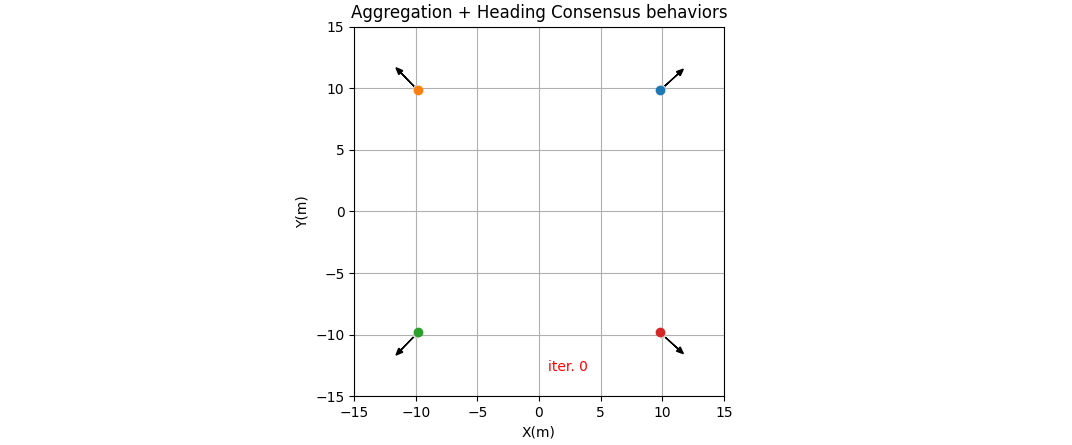
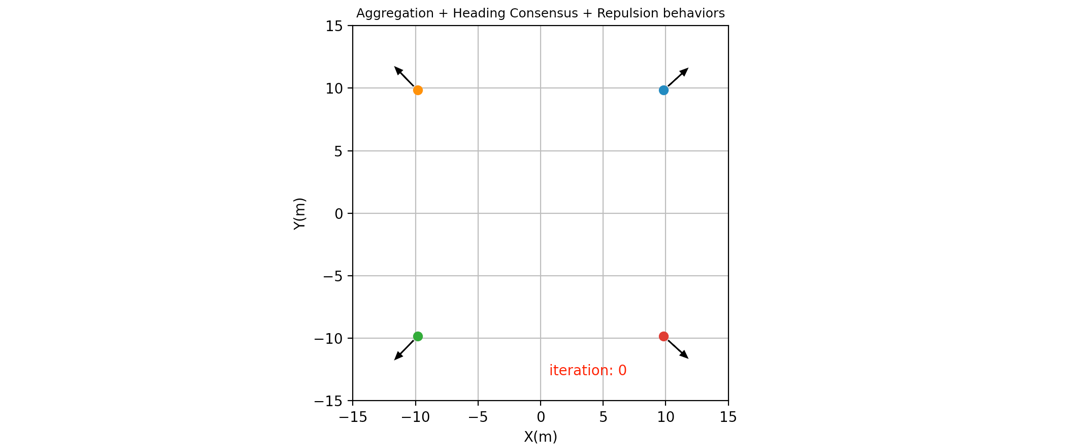
Update paper

diff --git a/examples/example_joss_paper.py b/examples/example_joss_paper.py
@@ -66,7 +66,7 @@ class Swarm_paper:
         self.ax.set_ylabel('Y(m)')
         self.ax.grid()
         self.ax.set_aspect('equal')
-        self.ax.set_title('Aggregation + Heading Consensus behaviors')
+        self.ax.set_title('Aggregation + Heading Consensus + Repulsion behaviors', fontsize=9)
 
         # path history
         self.ax.plot(self.position_history[0][0], self.position_history[0][1], marker='.', lw=0, c='lightgray')
@@ -86,7 +86,7 @@ class Swarm_paper:
         self.ax.arrow(self.robot_positions[2][0], self.robot_positions[2][1], arrow_len*np.cos(self.robot_orientations[2][2]), arrow_len*np.sin(self.robot_orientations[2][2]), head_width=0.45, head_length=0.55, fc='k')
         self.ax.arrow(self.robot_positions[3][0], self.robot_positions[3][1], arrow_len*np.cos(self.robot_orientations[3][2]), arrow_len*np.sin(self.robot_orientations[3][2]), head_width=0.45, head_length=0.55, fc='k')
 
-        self.ax.text(0.7, -12.95, 'iter. %d' % (i), color='red')
+        self.ax.text(0.7, -12.95, 'iteration: %d' % (i), color='red')
 
         self.robot_positions_copy = self.robot_positions.copy()
         self.robot_orientations_copy = self.robot_orientations.copy()
@@ -94,7 +94,7 @@ class Swarm_paper:
         for r_ind in range(len(self.robot_positions)):
             r_i = self.robot_positions[r_ind]
             r_j = np.delete(self.robot_positions, np.array([r_ind]), axis=0)
-            self.robot_positions_copy[r_ind] += self.robot_linear_speed*(pb.aggregation(r_i, r_j))
+            self.robot_positions_copy[r_ind] += self.robot_linear_speed*((pb.aggregation(r_i, r_j)) + pb.repulsion(r_i, r_j, 3.0))
 
             theta_i = self.robot_orientations[r_ind]
             theta_j = np.delete(self.robot_orientations, np.array([r_ind]), axis=0)

diff --git a/paper/paper.md b/paper/paper.md
@@ -29,29 +29,80 @@ bibliography: paper.bib
 
 # Summary
 
-When considering a system composed by a group of robots, swarm robotics is an approach that can be used to coordinating this group. These swarm robotic systems can be inspired or not by social insects or other animal societies [@trianni:2008], where basic behaviors are usually used to compose complex tasks. These previous mentioned basic behaviors have been studied for a long time, with applications, for example, to flocks, herds, and schools [@reynolds:1987] and multi-robot teams [@balch:1998].
+When considering a system composed of a group of robots, swarm robotics is an approach that can be used to coordinate this group. These swarms can be inspired or not by social insects or other animal societies [@trianni:2008], where basic behaviors are usually used to compose complex tasks. These previously mentioned basic behaviors have been studied for a long time, with applications, for example, to flocks, herds, and schools [@reynolds:1987] and multi-robot teams [@balch:1998].
 However, software standardization is urgently needed to maximize the applicability of swarm robotics to real-world applications [@nedjah:2019]. Here we introduce PySwarming, a tool that makes easy the coordination of swarms and serves as a centerpiece, organizing different methods developed in the swarm robotics field. Its flexibility (written in Python) and customizability (easily customized by users) encourage interaction and scientific progress in the research community.
 
 # Introduction
 
-Controlling a system composed of a group of robots can be a challenge, then, swarm robotics is an approach that is widely used to coordinate this kind of system. Furthermore, the changes that the field of swarm robotics has experienced in the last decade are unprecedented, with various demonstrations showing the potential of this technology [@drigo:2021]. Moreover, it is important to note that swarm robotics is a subfield of multi-robot systems, itself a subfield of mobile robot research [@dias:2021].
-Additionally, these swarming robotic systems may or may not be inspired by social insects and other animal societies [@trianni:2008], where basic behaviors are typically used to compose complex tasks. The aforementioned behavior has long been studied and applied, for instance, to herds, flocks, schools, etc. ([@reynolds:1987], [@toner:1998]), self-driven particles [@vicsek:1995], large collections of robots ([@reif:1999], [@spears:1999]), and the multi-robot teams [@balch:1998].
-
-## Statement of Need
-
-Although, as stated by [@nedjah:2019], a significant issue in the swarm robotics field is the lack of common generic hardware platforms and controller design methodologies. Also, the authors claim an urgent need for standardization of software, to allow a possible flourishing of swarm robotics applicability to real-world applications.
+Controlling a system composed of a group of robots can be a challenge, then, swarm robotics is an approach that is widely used to coordinate this kind of system. Furthermore, the changes that the field of swarm robotics has experienced in the last decade are unprecedented, with various demonstrations showing the potential of this technology [@dorigo:2021]. Moreover, it is important to note that swarm robotics is a subfield of multi-robot systems, itself a subfield of mobile robot research [@dias:2021].
+Additionally, these swarms may or may not be inspired by social insects and other animal societies [@trianni:2008], where basic behaviors are typically used to compose complex tasks. The aforementioned behaviors have long been studied and applied, for instance, to herds, flocks, schools, etc. ([@reynolds:1987], [@toner:1998]), self-driven particles [@vicsek:1995], large collections of robots ([@reif:1999], [@spears:1999]), and multi-robot teams [@balch:1998].
 
 ## Related Software Packages
 
-There are various software packages which concerns swarm robotics, [@calderon:2022] presents a good review regarding swarm robotics simulators, platforms and applications. Therefore, for software packages we have, for instance: (1) Buzz, which is a programming language for heterogeneous robot swarms [@pinciroli:2015]. It offers primitives to define swarm behaviors and also single-robot instructions; (2) ChoiRbot by [@testa:2021], which is a toolbox for distributed cooperative robotics based on the Robot Operating System (ROS) 2; (3) ROS2SWARM, which is a package for applications of swarm robotics that provides a library of ready-to-use swarm behavioral primitives [@kaiser:2022]; (4) ARGoS, which is a multi-physics robot simulator, able to simulating large-scale swarms of robots [@pinciroli:2011]; (5) Stage Simulator, which provides a virtual world populated by mobile robots and sensors, along with various objects for the robots to sense and manipulate [@vaughan:2008]; (6) USARSim is a free 3D simulator similar to Gazebo [@carpin:2007]; (7) Swarm-bots [@mondada:2004] is also a robotic simulator, but it is not publicly available; (8) and TeamBots is a Java-based collection of application programs and Java packages for multiagent mobile robotics research [@balch:1998teambots].
+For more than 20 years software for swarm robotics has been created, adapted, and tested in different ways [@calderon:2022].  Software packages that allow the creation of virtual scenarios and swarm robots with sensing, processing, and actuating capabilities are crucial for the swarm robotics field. These software packages may be split into two categories: (1) *Swarm Simulators*, which in general can simulate swarm robots with sensors and actuators, and (2) *Behavior Packages*, which are composed of a bunch of ready-to-use collective behaviors. Also, these software are written in different programming languages, which may be an initial barrier for new users, depending on how much this language is difficult to learn or previous knowledge by the user. Concerning swarm robotics, [@calderon:2022] presents a good review regarding swarm robotics simulators, platforms, and applications. Therefore, for software packages we have, for instance: (1) Buzz, which is a programming language for heterogeneous robot swarms [@pinciroli:2015]. It offers primitives to define swarm behaviors and also single-robot instructions; (2) ChoiRbot by [@testa:2021], which is a toolbox for distributed cooperative robotics based on the Robot Operating System (ROS) 2; (3) ROS2Swarm, which is a package for applications of swarm robotics that provides a library of ready-to-use swarm behavioral primitives [@kaiser:2022]; (4) ARGoS, which is a multi-physics robot simulator, able to simulating large-scale swarms of robots [@pinciroli:2011]; (5) Stage Simulator, which provides a virtual world populated by mobile robots and sensors, along with various objects for the robots to sense and manipulate [@vaughan:2008]; (6) USARSim is a free 3D simulator similar to Gazebo [@carpin:2007]; (7) The Swarm-bots project [@mondada:2004] is also a robotic simulator with swarm-intelligence-based control mechanisms, but it is not publicly available; (8) and TeamBots is a Java-based collection of application programs and Java packages for multiagent mobile robotics research [@balch:1998teambots]. **Table 1** shows a summary of these software and their respective category and programming languages.
+
+<div align="center">
+
+| Software | Category | Programing Language |
+| ------------ | --------------- | --------------------------- |
+| Buzz | Behaviors package | Buzz |
+| ChoiRbot | Behaviors package[^*] | Python |
+| ROS2Swarm | Behaviors package[^*] | Python |
+| ARGoS | Simulator | C++ |
+| Stage | Simulator | C++ |
+| USARSim | Simulator | UnrealScript |
+| Gazebo | Simulator | C++ and Python[^**] |
+| Swarm-bots | Simulator and Behaviors package | Not found |
+| TeamBots | Simulator and Behaviors package | Java and C |
+
+</div>
+
+Table 1: Summary of software packages with their respective categories and programming languages.
+
+[^*]: These packages were built to be used with ROS.
+[^**]: These are the programming languages that can be used in the interface ROS-Gazebo.
+
+## Statement of Need
+
+Concerning the *Swarm Simulators*, there is an enormous variety of excellent candidates, but it is hard to compare each other since each one has been developed with different objectives [@erez:2015]. Then, recommendations regarding this choice can be found in [@calderon:2022].
+Regarding *Behavior Packages*, their objective is to offer ready-to-use collective behaviors, depending on the programming language in which they are implemented they can be used inside different simulators. However, as can noticed from the previous section, in general, different packages are written in different languages, imposing a possible barrier for new users and the use of the package inside simulators written in a different programming language. This last fact agrees with [@nedjah:2019], where the authors claim an urgent need for standardization of software, to allow a possible flourishing of swarm robotics applicability to real-world applications.
 
 # PySwarming
-Considering the challenge of organizing the various methods developed in the swarm robotics field, PySwarming comes as a focal point, being flexible (written in Python) and customizable (can be easily adapted by the user), increasing the interaction of the researcher community and the advance of science. Also, PySwarming's characteristic is to make the implementations easy to read, keeping the syntax simple and closer to their sources. For example, the target algorithm by [@zoss:2018] is easily comparable with the mathematical formula of their article.
 
-PySwarming differs from Buzz and TeamBots mainly by the fact that it focuses on swarm behaviors and it is written in Python, which has a thriving ecosystem of third-party libraries. Also, implementations like ChoiRbot and ROS2SWARM require ROS 2 to run, which makes PySwarming more suitable for obtaining swarm behaviors through different platforms other than ROS. Lastly, unlike ARGoS, Stage, USARSim, and Swarm-bots, the main goal of PySwaming is not to be a simulator itself, but a common place for different swarm coordination methods and other tools.
+Because of the lack of a cross-platform *Behavior Package*, we introduce PySwarming, which is a tool that facilitates the coordination of swarms and serves as a centerpiece, organizing different methods developed in the swarm robotics field. The package is written in Python, which is one of the most accessible languages for learning and prototyping nowadays. Also, differently from other Python-based packages such as ChoiRbot and ROS2Swarm that are designed to work with ROS, the PySwarming package is implemented in a way that makes possible cross-platform use. In addition, the PySwarming package comes with a simple read-to-use simulation feature, which helps lower the barrier for newcomers to the field.
 
-Concerning the algorithms, PySwarming contains implementations from different authors, for instance, Leaderless Coordination [@vicsek:1995], Preferred Direction [@couzin:2005], Aggregation [@zoss:2018], and so on. Also, these algorithms are based on different design methods [@brambilla:2013], for instance, a behavior-based design like the attraction-repulsion algorithm (for details see [@spears:2004]) can drive the robotic swarming by means of virtual forces, where the achieved configuration relies on minimizing the system’s potential energy.
-More explanations regarding the algorithms and their use can be found in the API and PySwarming documentation. Also, an example usage (aggregation + heading consensus) is described below.
+Then, considering the challenge of organizing the various methods developed in the swarm robotics field, PySwarming comes as a focal point, being flexible (written in Python) and customizable (can be easily adapted by the user), increasing the interaction of the researcher community and the advance of science. Also, PySwarming's characteristic is to make the implementations easy to read, keeping the syntax simple and closer to their sources. For example, the target algorithm by [@zoss:2018] is easily comparable with the mathematical formula of their article.
+
+PySwarming differs from Buzz and TeamBots mainly by the fact that it focuses on swarm behaviors and it is written in Python, which has a thriving ecosystem of third-party libraries. Also, implementations like ChoiRbot and ROS2SWARM require ROS to run, which makes PySwarming more suitable for obtaining swarm behaviors through different platforms other than ROS. Lastly, unlike ARGoS, Stage, and USARSim the main goal of PySwaming is not to be a simulator itself, but a common place for different swarm coordination methods and other tools.
+
+Concerning the algorithms, PySwarming contains implementations from different authors, for instance, Leaderless Coordination [@vicsek:1995], Preferred Direction [@couzin:2005], Aggregation [@zoss:2018], and so on. Also, these algorithms are based on different design methods [@brambilla:2013], for instance, a behavior-based design like the attraction-repulsion algorithm (for details see [@spears:2004]) can drive the robotic swarming employing virtual forces, where the achieved configuration relies on minimizing the system’s potential energy. More explanations regarding the algorithms and their use can be found in the API and PySwarming documentation. Also, an example usage (aggregation + heading consensus + repulsion) is described below.
+
+## Simulation Example 
+
+To start our example, we will define a set of four robots assuming we have access to their positions and orientations. Initially, they are positioned far from each other, and also they have different orientations, as can be observed in \autoref{fig1}.
+
+![The initial state of the four robots. Each colored circle is a robot and the arrows indicate their orientation. The iteration number is the red text.\label{fig1}](fig1.png)
+
+Then, using `PySwarming` we iterate over time by summing three different behaviors: (1) Aggregation, (2) Heading Consensus, and (3) Repulsion. Each of these behaviors is applied to each robot at each timestep. As expected, the robots will aggregate, adjust their headings, and repulse each other simultaneously over the simulation. The intermediate and final results are shown in \autoref{fig2}.
+
+![Intermediate (left) and final (right) state of the four robots. The gray path is the plot of the last 30 iterations of each robot.\label{fig2}](fig2.png)
+
+The above simulation can be done by using other `PySwarming` behaviors, such as Attraction and Alignment, with just a few lines of code, which demonstrates the simplicity of `PySwarming`. Finally, the code for this simulation can be found in our [examples](https://github.com/mrsonandrade/pyswarming/tree/main/examples) directory.
+
+## How to create a new behavior and extend the package
+
+To show PySwarming’s flexibility and customizability here we illustrate a practical example. Then, imagine that we want to create a flocking behavior. Based on the literature it is known that the classical “flocking ”model is composed of three terms: (1) aggregation, (2) avoidance, and (3) alignment [@zoss:2018]. As we have all these previous behaviors implemented in PySwarming, you can simply do:
+
+```python
+# importing the swarming behaviors
+import pyswarming.behaviors as pb
+
+# creating a new flocking function
+def flocking(*args):
+    return pb.aggregation(*args) + pb.repulsion(*args) + pb.alignment(*args)
+```
+
+Then, we have created a new behavior based on existing ones. Where, `*args` are the arguments that will be used by these functions, for details, please see the PySwarming documentation. However, you have the freedom to extend the package and implement other models, add new features, and so on, detailed instructions can be found [here](https://pyswarming.readthedocs.io/en/latest/Contribution.html).
 
 ## Algorithms covered
 
@@ -79,26 +130,14 @@ This library includes the following algorithms to be used in swarm robotics:
 * **Alignment**: the collective performs heading consensus [@zoss:2018];
 * **Geofencing**: attract the robots towards area A [@zoss:2018];
 * **Repulsion**: makes all the individuals repulse collectively [@zoss:2018];
-* **Target**: the robot goes to an specific target location [@zoss:2018];
+* **Target**: the robot goes to a specific target location [@zoss:2018];
 * **Area coverage**: using the Geofencing and Repulsion algorithms [@zoss:2018];
 * **Collective navigation**: using the Target and Repulsion algorithms [@zoss:2018];
 * **Flocking**: using the Aggregation, Repulsion and Alignment algorithms [@zoss:2018];
 
-## Example Usage 
-To start our example, we will define a set of four robots assuming we have access to their positions and orientations. Initially, they are positioned far from each other, and also they have different orientations, as can be observed in \autoref{fig1}.
-
-![The initial state of the four robots. Each colored circle is a robot and the arrows are indicating their orientation. The iteration number is the red text.\label{fig1}](fig1.png)
-
-Then, using `PySwarming` we iterate over time by summing two different behaviors: (1) Aggregation and (2) Heading Consensus. Each of these behaviors is applied to each robot at each timestep. As expected, the robots will aggregate and adjust their headings simultaneously over the simulation. The mid and final results are shown in \autoref{fig2}.
-
-![Mid (left) and final (right) state of the four robots. The gray path is the plot of the last 30 iterations of each robot.\label{fig2}](fig2.png)
-
-The above simulation can be done by using other `PySwarming` behaviors, such as Attraction and Alignment, with just a few lines of code, which demonstrates the simplicity of `PySwarming`. Finally, the code for this simulation can be found in our [examples](https://github.com/mrsonandrade/pyswarming/tree/main/examples) directory.
-
 # Conclusion
 
-Finally, we identified that despite the existence of many other software packages, PySwarming comes as a focal point, filling an important space, which regards the organization of the different methods developed over the last decades. Also, the fact that the library is written in Python confers flexibility and customization, increasing the interaction of the researcher community and the advancement of science.
- 
+Finally, we identified that despite the existence of other *Behavior Packages*, PySwarming comes as a cross-platform one, serving as a focal point, filling an important space, which regards the organization of the different methods developed over the last decades. Also, the fact that the library is written in Python confers a lower barrier for newcomers to the field, flexibility, and customization, increasing the interaction of the researcher community and the advancement of science.
 
 # Acknowledgements
 The authors would like to thank the Human Resources Program from the National Agency of Oil, Gas and Bio Combustibles – PRH-ANP for the financial support.

diff --git a/README.md b/README.md
@@ -3,7 +3,7 @@
 [![Project Status: Active – The project has reached a stable, usable state and is being actively developed.](https://www.repostatus.org/badges/latest/active.svg)](https://www.repostatus.org/#active)
 [![Documentation Status](https://readthedocs.org/projects/pyswarming/badge/?version=latest)](https://pyswarming.readthedocs.io/en/latest/?badge=latest)
 ![version](https://img.shields.io/badge/version-1.1.2-blue)
-[![Downloads](https://static.pepy.tech/badge/pyswarming)](https://pepy.tech/project/pyswarming)
+[![Downloads](https://static.pepy.tech/personalized-badge/pyswarming?period=total&units=none&left_color=black&right_color=blue&left_text=Downloads)](https://pepy.tech/project/pyswarming)
 
 <img align="left" src="docs/readme_pics/logo.png">
 
@@ -132,7 +132,7 @@ my_swarm.simulate()
 Considering a swarm of robots, they can show different behaviors by using ``pyswarming``. The following codes are simplified implementations, for detailed ones, see the [examples](https://github.com/mrsonandrade/pyswarming/tree/main/examples) folder.
 ```python
 # importing the swarming behaviors
-import pyswarming.behaviors as ps
+import pyswarming.behaviors as pb
 
 # importing numpy to work with arrays
 import numpy as np
@@ -157,7 +157,7 @@ for t in range(15):
     print(robot_position_i)
 
     # update the robot (x, y, z) position
-    robot_position_i += robot_speed_i*ps.target(robot_position_i, target_position)
+    robot_position_i += robot_speed_i*pb.target(robot_position_i, target_position)
 ```
 ![Target](notebooks/pics/Target.gif)
 
@@ -183,7 +183,7 @@ for time_i in range(15):
     for r_ind in range(len(robot_speed)):
         r_i = robot_speed[r_ind]
         r_j = np.delete(robot_speed, np.array([r_ind]), axis=0)
-        robot_speed[r_ind] += robot_speed*ps.aggregation(r_i, r_j)
+        robot_speed[r_ind] += robot_speed*pb.aggregation(r_i, r_j)
 ```
 ![Aggregation](notebooks/pics/Aggregation.gif)
 
@@ -209,7 +209,7 @@ for time_i in range(15):
     for r_ind in range(len(robot_position)):
         r_i = robot_position[r_ind]
         r_j = np.delete(robot_position, np.array([r_ind]), axis=0)
-        robot_position[r_ind] += robot_speed*ps.repulsion(r_i, r_j, 3.0)
+        robot_position[r_ind] += robot_speed*pb.repulsion(r_i, r_j, 3.0)
 ```
 ![Repulsion](notebooks/pics/Repulsion.gif)
 
@@ -234,7 +234,7 @@ for time_i in range(15):
     for r_ind in range(len(robot_position)):
         r_i = robot_position[r_ind]
         r_j = np.delete(robot_position, np.array([r_ind]), axis=0)
-        robot_position[r_ind] += s_i*(ps.aggregation(r_i, r_j) + ps.repulsion(r_i, r_j, 5.0))
+        robot_position[r_ind] += s_i*(pb.aggregation(r_i, r_j) + pb.repulsion(r_i, r_j, 5.0))
 ```
 ![AggregationRepulsion](notebooks/pics/AggregationRepulsion.gif)
 
